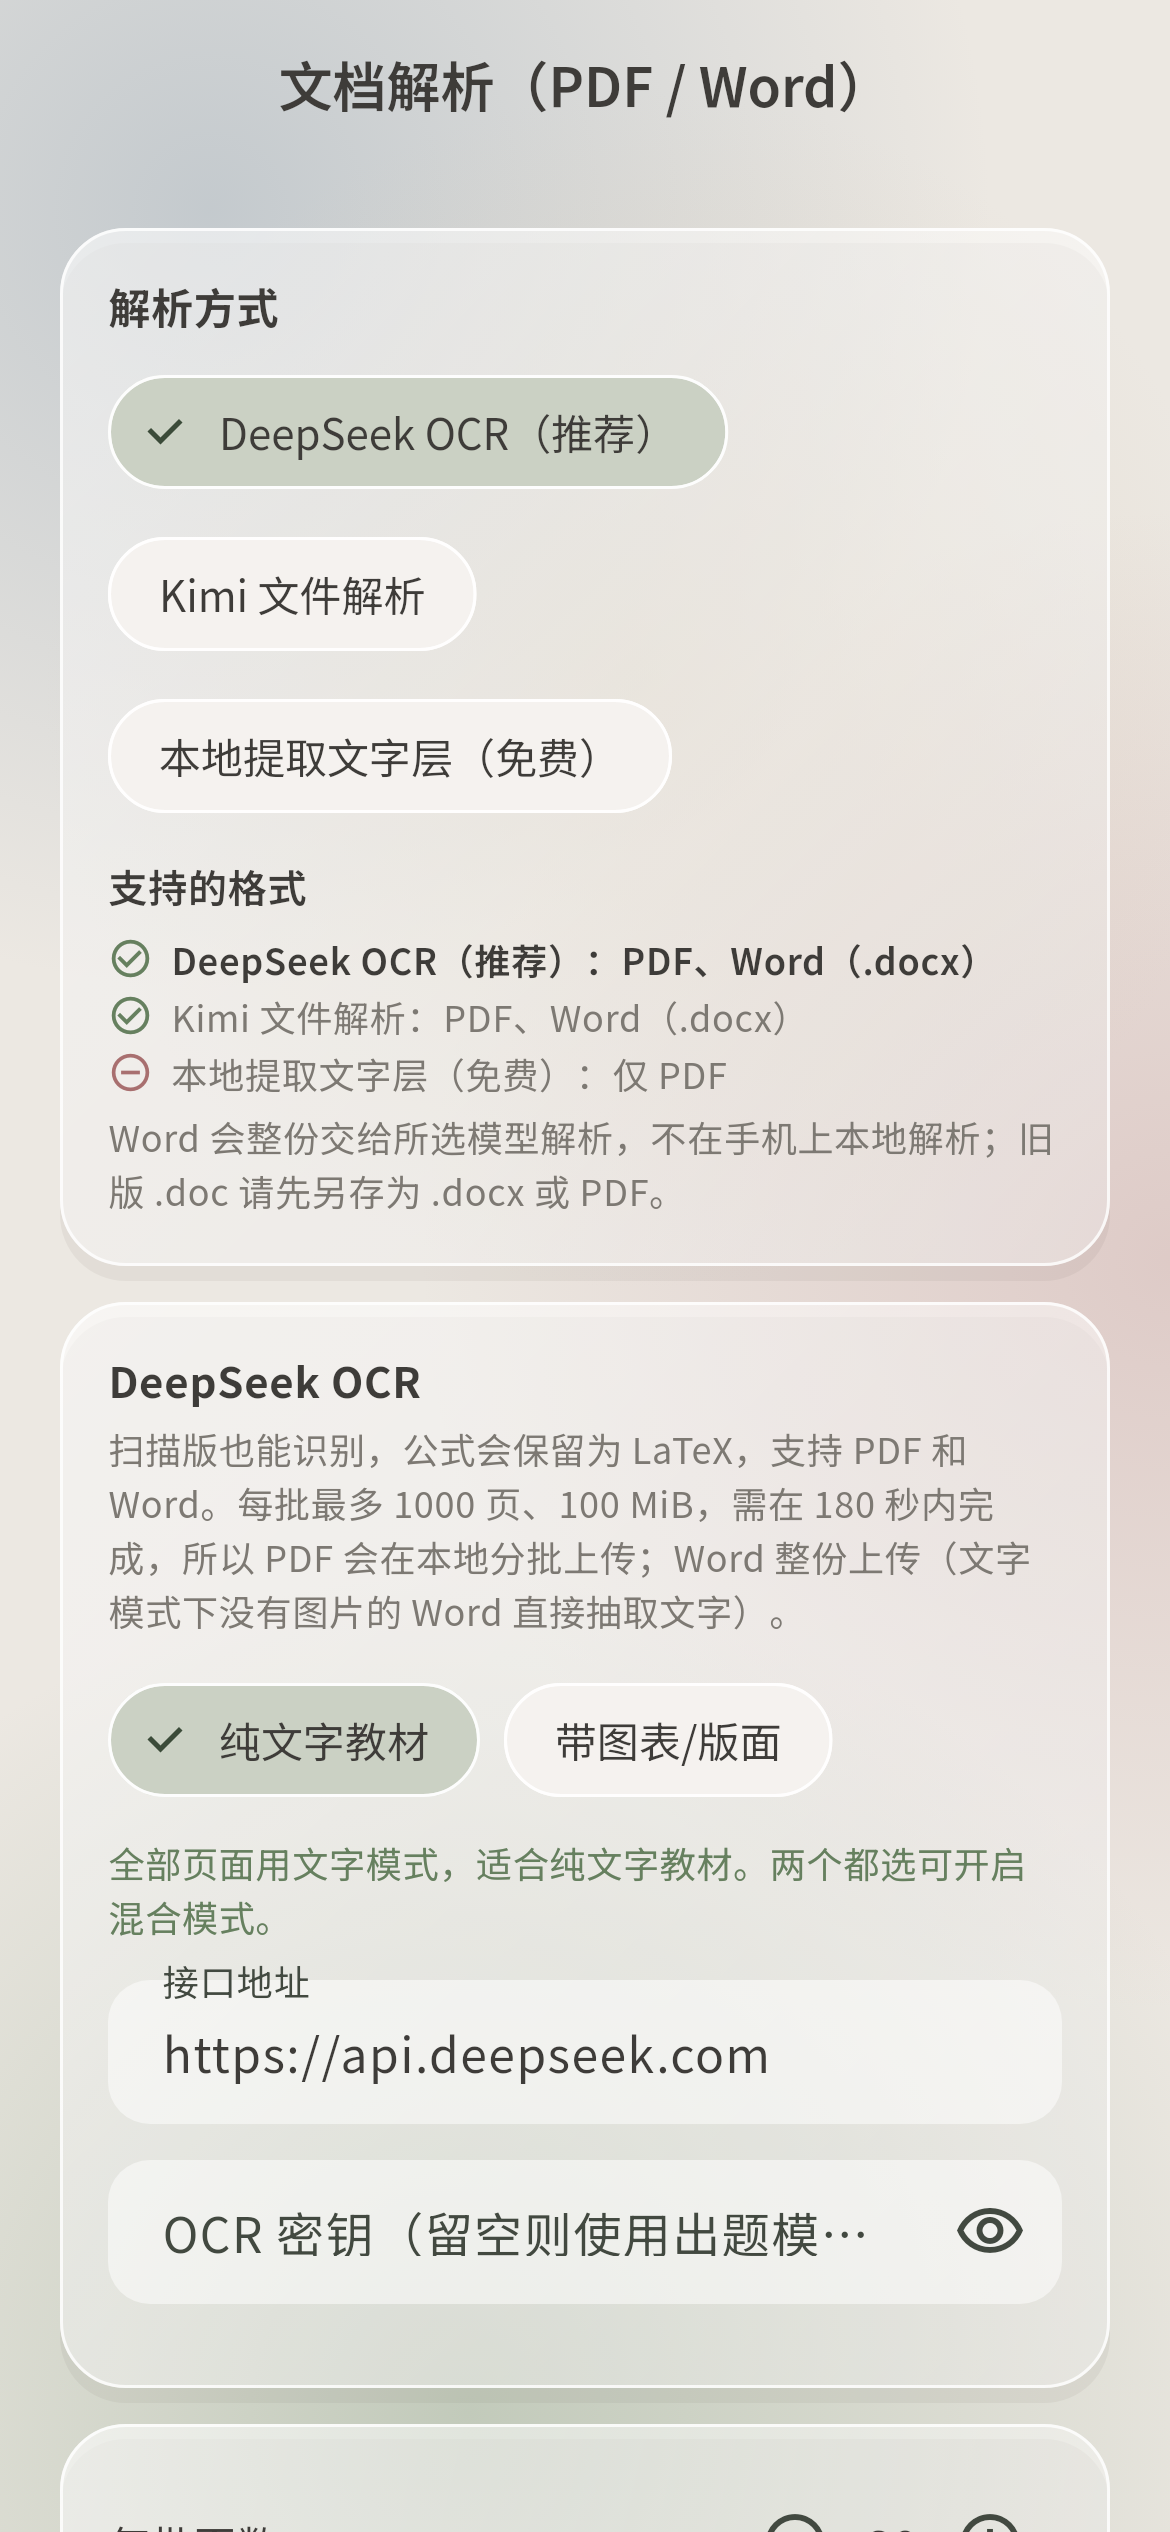
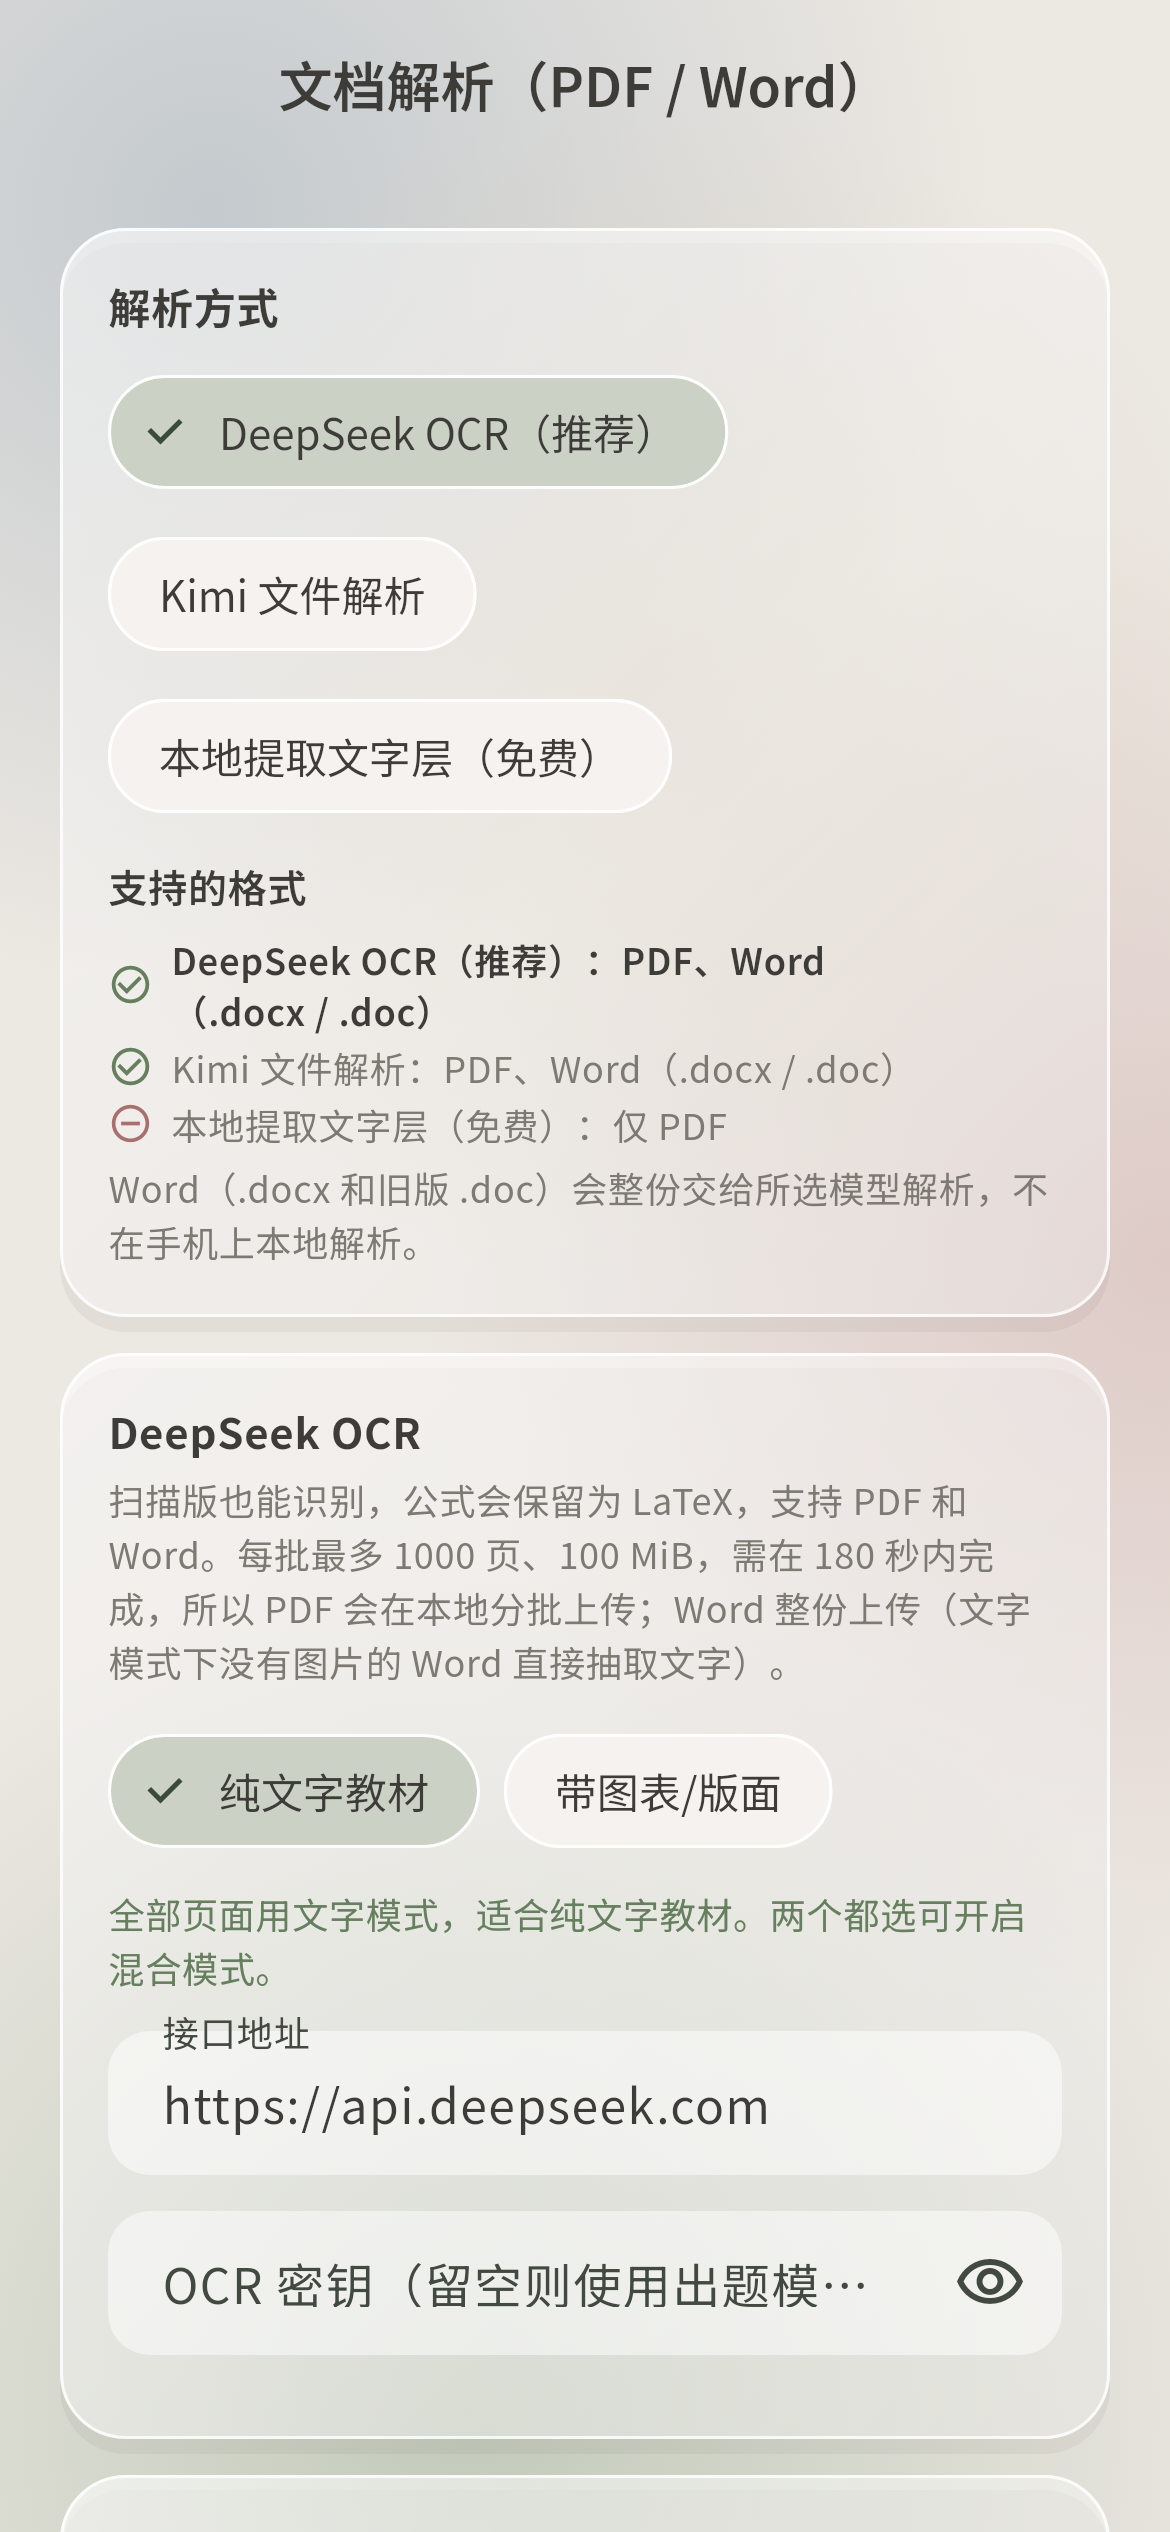
v1.1.7: 支持旧版 Word（.doc），以 application/msword 交给 DeepSeek OCR / Kimi；上传文件带正确 MIME

diff --git a/test/word_doc_test.dart b/test/word_doc_test.dart
@@ -37,6 +37,8 @@ void main() {
     expect(PdfDoc.fromJson({'id': 'a', 'projectId': 'p', 'name': 'n', 'path': ''}).type, 'pdf');
     expect(PdfDoc.typeOf('A.DOCX'), 'docx');
     expect(PdfDoc.typeOf('a.pdf'), 'pdf');
+    expect(PdfDoc.typeOf('旧讲义.DOC'), 'doc');
+    expect(PdfDoc(id: 'x', projectId: 'p', name: 'n', path: '', type: 'doc').isWord, isTrue);
     expect(Settings.supportsWord(OcrProvider.deepseek), isTrue);
     expect(Settings.supportsWord(OcrProvider.kimi), isTrue);
     expect(Settings.supportsWord(OcrProvider.local), isFalse);
@@ -57,6 +59,7 @@ void main() {
     expect(calls.single.url.path, '/v1/tools/ocr');
     final body = latin1.decode(calls.single.bodyBytes);
     expect(body, contains('.docx"'));
+    expect(body, contains('content-type: application/vnd.openxmlformats-officedocument.wordprocessingml.document'));
     expect(body, contains('text_recognition'));
     expect(doc.status, '已解析');
     expect(doc.pageCount, 4); // 每个章/节标题开一个小节：第一章、1.1、1.2、第二章
@@ -115,5 +118,59 @@ void main() {
     final parts = splitWordSections(long, maxChars: 1000);
     expect(parts.length, greaterThan(3));
     expect(parts.every((p) => p.length < 2000), isTrue);
+  });
+
+  group('旧版 .doc', () {
+    late PdfDoc legacy;
+    setUp(() async {
+      final f = File('${Directory.systemTemp.createTempSync('d').path}/旧讲义.doc')..writeAsBytesSync([0xD0, 0xCF, 0x11, 0xE0]);
+      legacy = PdfDoc(id: 'd1', projectId: 'p1', name: '旧讲义', path: f.path, type: PdfDoc.typeOf('旧讲义.doc'));
+      await repo.saveDoc(legacy);
+    });
+
+    test('DeepSeek OCR：.doc 以 application/msword 上传', () async {
+      settings.ocrProvider = OcrProvider.deepseek;
+      await settings.setOcrKey('sk-test');
+      var body = '';
+      final client = MockClient((req) async {
+        body = latin1.decode(req.bodyBytes);
+        return http.Response.bytes(utf8.encode(jsonEncode({'page_count': 1, 'pages': [{'index': 0, 'text': wordText}]})), 200);
+      });
+      expect(await ParseService(repo, settings, httpClient: client).parseDoc(legacy, (_, _) {}), 0);
+      expect(body, contains('.doc"'));
+      expect(body, contains('content-type: application/msword'));
+      expect(legacy.status, '已解析');
+      expect(repo.isWordDoc('d1'), isTrue);
+    });
+
+    test('Kimi：.doc 以 application/msword 上传', () async {
+      settings.ocrProvider = OcrProvider.kimi;
+      await settings.setKimiKey('sk-kimi');
+      var body = '';
+      final client = MockClient((req) async {
+        if (req.method == 'POST') {
+          body = latin1.decode(req.bodyBytes);
+          return http.Response(jsonEncode({'id': 'f'}), 200);
+        }
+        return http.Response.bytes(utf8.encode(jsonEncode({'content': wordText})), 200);
+      });
+      expect(await ParseService(repo, settings, httpClient: client).parseDoc(legacy, (_, _) {}), 0);
+      expect(body, contains('file-extract'));
+      expect(body, contains('content-type: application/msword'));
+      expect(legacy.status, '已解析');
+    });
+
+    test('本地提取：.doc 同样提示不支持，不联网', () async {
+      settings.ocrProvider = OcrProvider.local;
+      var calls = 0;
+      final client = MockClient((req) async {
+        calls++;
+        return http.Response('{}', 200);
+      });
+      expect(await ParseService(repo, settings, httpClient: client).parseDoc(legacy, (_, _) {}), 1);
+      expect(calls, 0);
+      expect(legacy.status, '不支持');
+      expect(legacy.note, ParseService.wordUnsupported);
+    });
   });
 }

diff --git a/lib/services/ocr.dart b/lib/services/ocr.dart
@@ -3,6 +3,7 @@ import 'dart:convert';
 import 'dart:typed_data';
 
 import 'package:http/http.dart' as http;
+import 'package:http_parser/http_parser.dart';
 
 class OcrException implements Exception {
   final String message;
@@ -62,6 +63,15 @@ class OcrText {
   }
 }
 
+/// 按扩展名给上传文件设置正确的 MIME 类型。
+MediaType mimeFor(String fileName) {
+  final l = fileName.toLowerCase();
+  if (l.endsWith('.docx')) return MediaType('application', 'vnd.openxmlformats-officedocument.wordprocessingml.document');
+  if (l.endsWith('.doc')) return MediaType('application', 'msword');
+  if (l.endsWith('.pdf')) return MediaType('application', 'pdf');
+  return MediaType('application', 'octet-stream');
+}
+
 abstract class PdfParser {
   /// 解析一个批次的 PDF（已在本地拆好），返回该批次每页文字。
   Future<OcrResult> parse(Uint8List pdfBytes, String fileName, int pageCount);
@@ -90,7 +100,7 @@ class DeepSeekOcr implements PdfParser {
     final req = http.MultipartRequest('POST', Uri.parse('$b/v1/tools/ocr'))
       ..headers['Authorization'] = 'Bearer $apiKey'
       ..fields['purpose'] = purpose
-      ..files.add(http.MultipartFile.fromBytes('file', pdfBytes, filename: fileName));
+      ..files.add(http.MultipartFile.fromBytes('file', pdfBytes, filename: fileName, contentType: mimeFor(fileName)));
     try {
       final streamed = await client.send(req).timeout(const Duration(seconds: 180));
       final body = await streamed.stream.bytesToString(utf8).timeout(const Duration(seconds: 180));
@@ -122,7 +132,7 @@ class KimiFileExtract implements PdfParser {
     final up = http.MultipartRequest('POST', Uri.parse('$b/files'))
       ..headers['Authorization'] = 'Bearer $apiKey'
       ..fields['purpose'] = 'file-extract'
-      ..files.add(http.MultipartFile.fromBytes('file', pdfBytes, filename: fileName));
+      ..files.add(http.MultipartFile.fromBytes('file', pdfBytes, filename: fileName, contentType: mimeFor(fileName)));
     final r = await http.Response.fromStream(await client.send(up).timeout(const Duration(seconds: 180)));
     if (r.statusCode != 200) throw OcrException('Kimi 上传失败（${r.statusCode}）：${utf8.decode(r.bodyBytes)}');
     final id = jsonDecode(utf8.decode(r.bodyBytes))['id'];

diff --git a/lib/ui/project_page.dart b/lib/ui/project_page.dart
@@ -80,17 +80,13 @@ class _ProjectPageState extends State<ProjectPage> {
   Future<void> _upload() async {
     final picked = await FilePicker.pickFiles(type: FileType.custom, allowedExtensions: ['pdf', 'docx', 'doc']);
     if (picked.isEmpty) return;
-    final legacy = picked.where((f) => f.name.toLowerCase().endsWith('.doc')).toList();
-    if (legacy.isNotEmpty && mounted) {
-      toast(context, '暂不支持旧版 .doc 格式（${legacy.map((f) => f.name).join('、')}）。请在 Word / WPS 里「另存为」.docx 或 PDF 后再上传。');
-    }
     final dir = Directory(p.join((await getApplicationDocumentsDirectory()).path, 'pdfs'));
     await dir.create(recursive: true);
     final added = <PdfDoc>[];
     for (final f in picked) {
       if (f.path == null) continue;
       final lower = f.name.toLowerCase();
-      if (!lower.endsWith('.pdf') && !lower.endsWith('.docx')) continue;
+      if (!['.pdf', '.docx', '.doc'].any(lower.endsWith)) continue;
       final type = PdfDoc.typeOf(f.name);
       final id = newId();
       final dest = p.join(dir.path, '$id.$type');
@@ -255,7 +251,7 @@ class _ProjectPageState extends State<ProjectPage> {
             Expanded(
               child: Column(crossAxisAlignment: CrossAxisAlignment.start, children: [
                 Text('上传 PDF / Word', style: TextStyle(fontWeight: FontWeight.w600, fontSize: 15)),
-                Text('支持 PDF 和 Word（.docx），可一次选择多个（在文件选择器里长按可多选）', style: TextStyle(color: M.sub, fontSize: 12)),
+                Text('支持 PDF 和 Word（.docx / .doc），可一次选择多个（在文件选择器里长按可多选）', style: TextStyle(color: M.sub, fontSize: 12)),
               ]),
             ),
           ]),

diff --git a/lib/ui/me_page.dart b/lib/ui/me_page.dart
@@ -183,13 +183,15 @@ class _OcrSettingsPageState extends State<OcrSettingsPage> {
                   Icon(Settings.supportsWord(p) ? Icons.check_circle_outline : Icons.remove_circle_outline,
                       size: 15, color: Settings.supportsWord(p) ? M.sageDark : M.roseDark),
                   const SizedBox(width: 6),
-                  Text('${ocrProviderNames[p]}：${Settings.providerFormats[p]}',
-                      style: TextStyle(fontSize: 12, color: st.ocrProvider == p ? M.text : M.sub,
-                          fontWeight: st.ocrProvider == p ? FontWeight.w600 : FontWeight.w400)),
+                  Expanded(
+                    child: Text('${ocrProviderNames[p]}：${Settings.providerFormats[p]}',
+                        style: TextStyle(fontSize: 12, color: st.ocrProvider == p ? M.text : M.sub,
+                            fontWeight: st.ocrProvider == p ? FontWeight.w600 : FontWeight.w400)),
+                  ),
                 ]),
               ),
             const SizedBox(height: 4),
-            const Text('Word 会整份交给所选模型解析，不在手机上本地解析；旧版 .doc 请先另存为 .docx 或 PDF。',
+            const Text('Word（.docx 和旧版 .doc）会整份交给所选模型解析，不在手机上本地解析。',
                 style: TextStyle(color: M.sub, fontSize: 12, height: 1.5)),
           ]),
         ),

diff --git a/lib/services/pipeline.dart b/lib/services/pipeline.dart
@@ -287,7 +287,7 @@ class ParseService {
 }
 
 extension on ParseService {
-  /// Word：整份 .docx 直接交给设置里的解析模型（DeepSeek OCR / Kimi），不在手机上本地解析。
+  /// Word：整份 .docx / .doc 直接交给设置里的解析模型（DeepSeek OCR / Kimi），不在手机上本地解析。
   /// 解析模型不支持 Word 时不联网，直接在这份资料上显示提示。
   Future<int> _parseWord(PdfDoc doc, Progress onProgress) async {
     if (parserOverride == null && !Settings.supportsWord(settings.ocrProvider)) {
@@ -310,7 +310,7 @@ extension on ParseService {
     Object? err;
     for (var attempt = 0; attempt < 3 && r == null; attempt++) {
       try {
-        r = await parser.parse(bytes, '${doc.name}.docx', 1);
+        r = await parser.parse(bytes, '${doc.name}.${doc.type}', 1); // 扩展名决定 MIME
       } catch (e) {
         err = e;
         if (e is OcrException && (e.message.contains('401') || e.message.contains('密钥'))) break;

diff --git a/lib/models.dart b/lib/models.dart
@@ -32,7 +32,7 @@ class PdfDoc {
   int pageCount;
   int parsedPages;
   String status; // 未解析 / 解析中 / 已解析 / 部分失败 / 不支持
-  String type; // pdf / docx（Word）
+  String type; // pdf / docx / doc（后两种都是 Word）
   String note; // 给用户看的提示，例如当前解析模型不支持 Word
   PdfDoc({
     required this.id,
@@ -45,10 +45,15 @@ class PdfDoc {
     this.type = 'pdf',
     this.note = '',
   });
-  bool get isWord => type == 'docx';
+  bool get isWord => type == 'docx' || type == 'doc';
 
   /// 资料类型：按扩展名判断。
-  static String typeOf(String fileName) => fileName.toLowerCase().endsWith('.docx') ? 'docx' : 'pdf';
+  static String typeOf(String fileName) {
+    final l = fileName.toLowerCase();
+    if (l.endsWith('.docx')) return 'docx';
+    if (l.endsWith('.doc')) return 'doc';
+    return 'pdf';
+  }
   Map<String, dynamic> toJson() => {
         'id': id,
         'projectId': projectId,

diff --git a/lib/data/repository.dart b/lib/data/repository.dart
@@ -24,7 +24,7 @@ class Repository {
   }
 
   // ---------- PDF ----------
-  /// docId → 类型（pdf / docx），用于出处显示「第 N 页」还是「标题名」。
+  /// docId → 类型（pdf / docx / doc），用于出处显示「第 N 页」还是「标题名」。
   final docTypes = <String, String>{};
   Future<void> loadDocTypes() async {
     for (final j in await store.list('docs')) {
@@ -32,7 +32,7 @@ class Repository {
     }
   }
 
-  bool isWordDoc(String docId) => docTypes[docId] == 'docx';
+  bool isWordDoc(String docId) => docTypes[docId] == 'docx' || docTypes[docId] == 'doc';
 
   Future<List<PdfDoc>> docs(String projectId) async {
     final l = (await store.list('docs', projectId: projectId)).map(PdfDoc.fromJson).toList();

diff --git a/test/screenshots_test.dart b/test/screenshots_test.dart
@@ -312,7 +312,7 @@ void main() {
     await state.repo.saveDoc(PdfDoc(
         id: 'w1', projectId: 'p1', name: '第三章 讲义（老师版）', path: '', type: 'docx', pageCount: 12, parsedPages: 12, status: '已解析'));
     await state.repo.saveDoc(PdfDoc(
-        id: 'w2', projectId: 'p1', name: '习题课笔记', path: '', type: 'docx', status: '不支持',
+        id: 'w2', projectId: 'p1', name: '习题课笔记（旧版 .doc）', path: '', type: 'doc', status: '不支持',
         note: '当前解析模型不支持 Word，请在「文档解析」设置里切换到支持 Word 的模型（DeepSeek OCR 或 Kimi），或把文档另存为 PDF'));
     await shoot(t, const ProjectPage(projectId: 'p1'), '16_word_doc_list');
   });

diff --git a/lib/data/doc_store.dart b/lib/data/doc_store.dart
@@ -64,7 +64,7 @@ class SqliteDocStore implements DocStore {
         await db.execute('CREATE INDEX idx_${c}_p ON $c(project_id)');
       }
     }, onUpgrade: (db, from, to) async {
-      // v2：资料加 type 字段（pdf / docx），旧资料全部标记为 PDF
+      // v2：资料加 type 字段（pdf / docx / doc），旧资料全部标记为 PDF
       if (from < 2) {
         for (final row in await db.query('docs')) {
           final j = jsonDecode(row['data'] as String) as Map<String, dynamic>;

diff --git a/lib/services/settings.dart b/lib/services/settings.dart
@@ -71,8 +71,8 @@ class Settings {
 
   /// 各解析方式支持的格式（依据 DeepSeek OCR 与 Kimi 文件接口的官方文档）。
   static const providerFormats = {
-    OcrProvider.deepseek: 'PDF、Word（.docx）',
-    OcrProvider.kimi: 'PDF、Word（.docx）',
+    OcrProvider.deepseek: 'PDF、Word（.docx / .doc）',
+    OcrProvider.kimi: 'PDF、Word（.docx / .doc）',
     OcrProvider.local: '仅 PDF',
   };
   static bool supportsWord(OcrProvider p) => p != OcrProvider.local;

diff --git a/README.md b/README.md
@@ -17,9 +17,9 @@
 </p>
 
 ## 功能
-- **按项目管理**：新建项目（如「概率论」）→ 上传 PDF 或 Word（.docx，可一次多选）→ AI 生成闪卡和题目，按章节浏览，每条都带解析和出处页码，可点回原文核对。
+- **按项目管理**：新建项目（如「概率论」）→ 上传 PDF 或 Word（.docx / .doc，可一次多选）→ AI 生成闪卡和题目，按章节浏览，每条都带解析和出处页码，可点回原文核对。
 - **PDF 解析**：默认 DeepSeek OCR，扫描版也能识别；支持**混合模式**（文字模式 + 版面模式同时勾选，App 在本地逐页判断，图表页用版面模式、其余用文字模式，每页只上传一次）。也可用 Kimi 文件解析或本地提取文字层。大文件自动分批，失败可重试，结果本地缓存不重复花钱。
-- **Word 文档（.docx）**：整份交给设置里的解析模型——DeepSeek OCR 和 Kimi 都支持 Word，不在手机上本地解析。按标题切成小节，按章节生成，出处显示标题名而不是页码。「本地提取」只支持 PDF，上传 Word 会提示切换模型或另存为 PDF；旧版 .doc 请先另存为 .docx 或 PDF。
+- **Word 文档（.docx / .doc）**：整份交给设置里的解析模型——DeepSeek OCR 和 Kimi 都支持 Word，不在手机上本地解析。按标题切成小节，按章节生成，出处显示标题名而不是页码。「本地提取」只支持 PDF，上传 Word 会提示切换模型或另存为 PDF。
 - **生成选项**：范围（整份/章节/页码）、数量、题型（单选、多选、判断、填空、简答、计算）、难度、侧重点、自定义要求；可存模板、设项目默认；高级设置可修改全部提示词。
 - **闪卡复习**：点按翻面，左右滑动评分；FSRS 算法安排复习；上一张 / 下一张回看；进度随时保存，被系统杀掉也能恢复。
 - **测验**：客观题自动判分，简答/计算题由 AI 批改打分；答完显示解析；可回看上一题。
